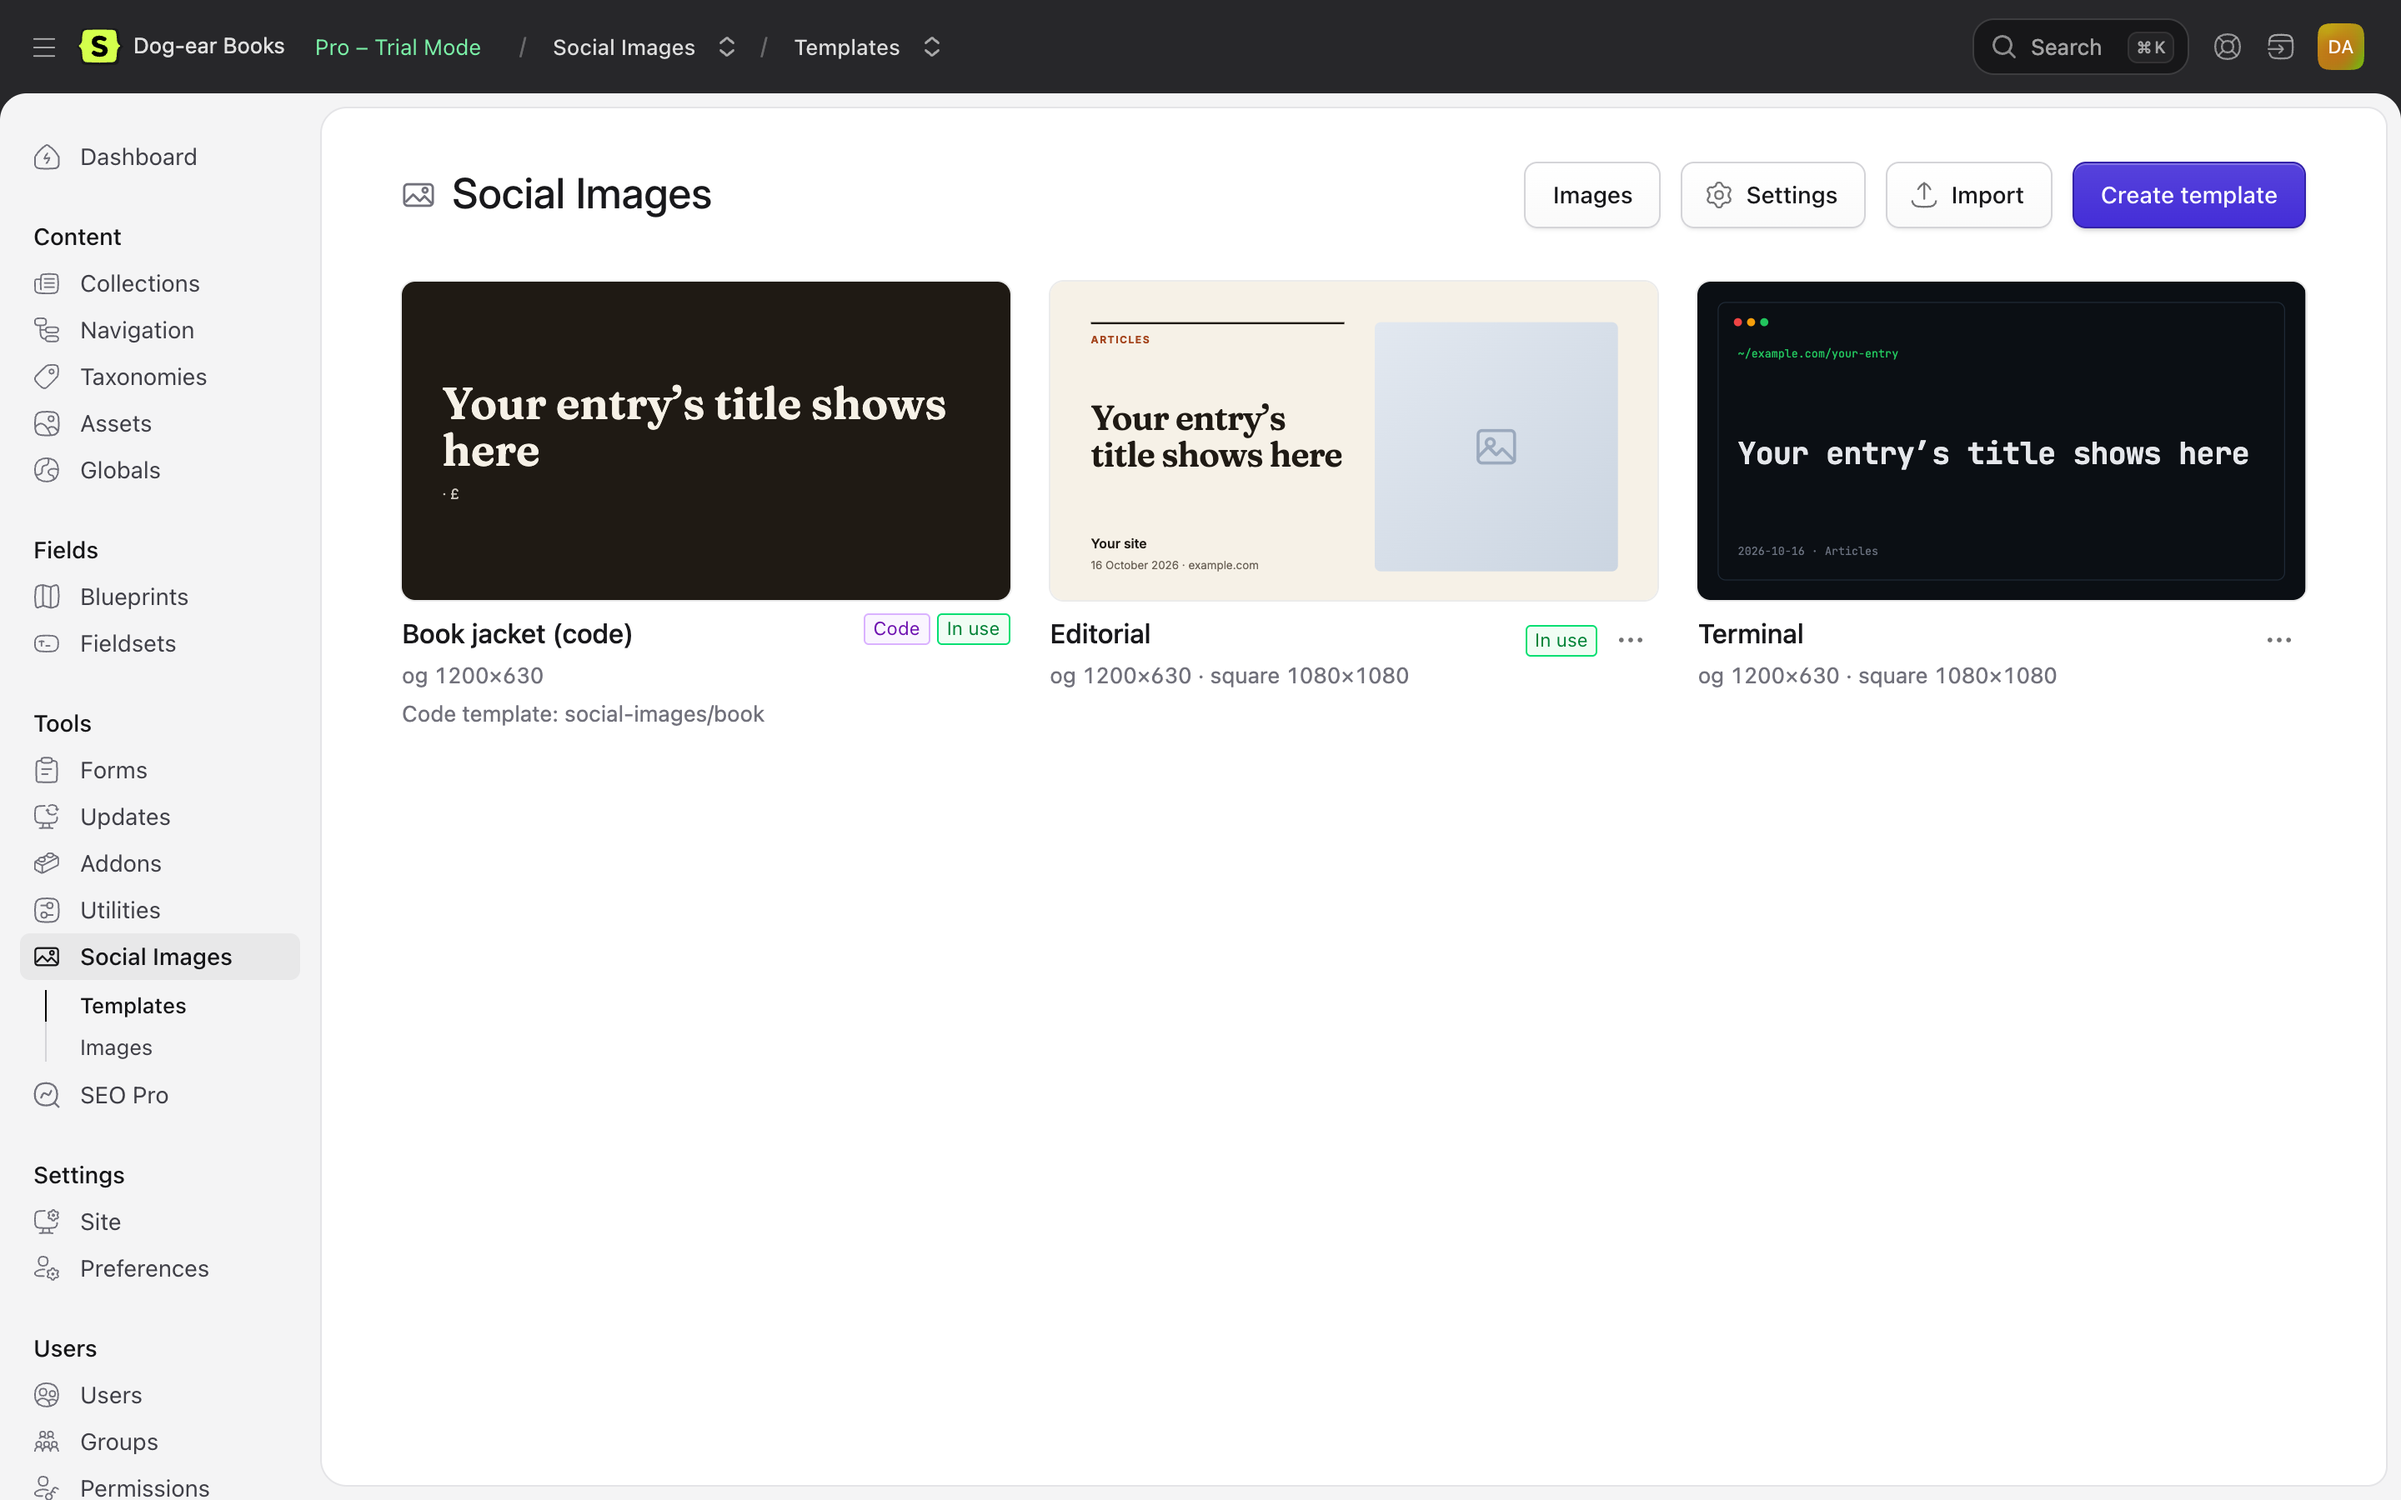
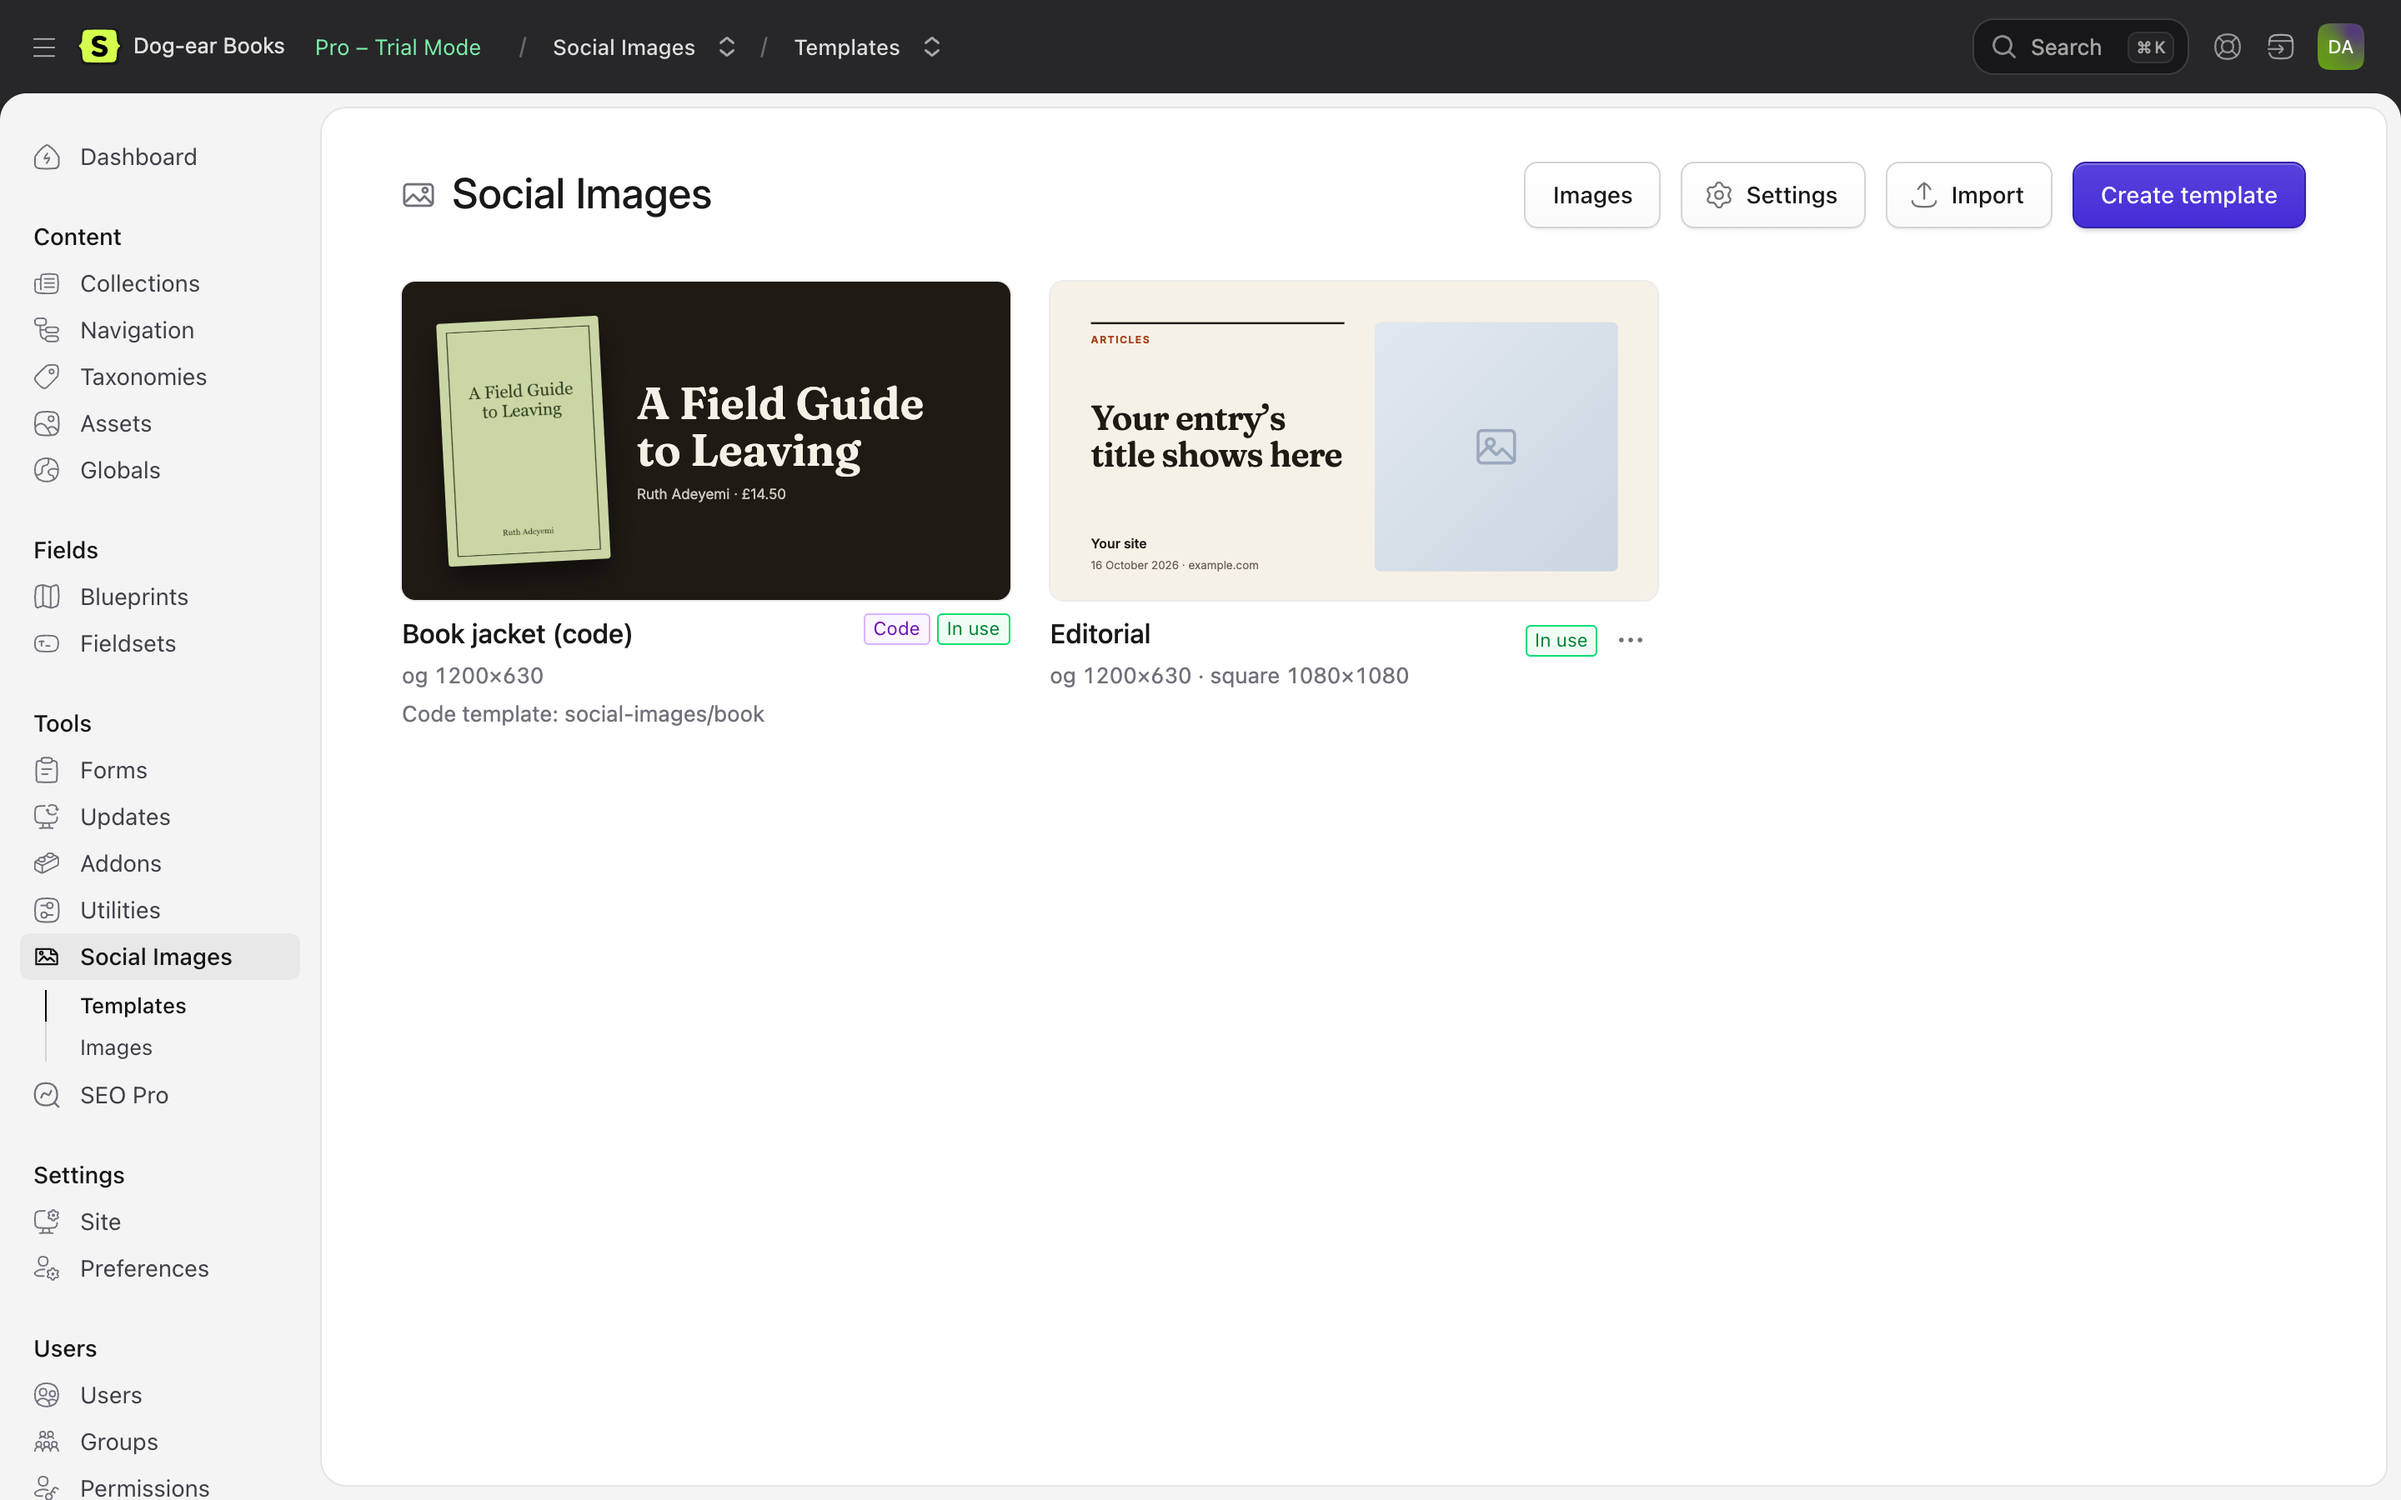
Templates page: preview code templates with a real entry
A code template only has a title to show as a sample, so its card looked
empty. With no entry chosen, it now shows a recent entry that uses the
template (one the user can see). Docs screenshots retaken.

diff --git a/src/Http/Controllers/CP/TemplatesController.php b/src/Http/Controllers/CP/TemplatesController.php
@@ -7,6 +7,7 @@ use Illuminate\Http\Request;
 use Inertia\Inertia;
 use Inertia\Response;
 use NineteenNinetyFour\SocialImages\Images\Camera;
+use NineteenNinetyFour\SocialImages\Images\Cards;
 use NineteenNinetyFour\SocialImages\Library\Fonts;
 use NineteenNinetyFour\SocialImages\Rendering\Page;
 use NineteenNinetyFour\SocialImages\Rendering\Resolver;
@@ -274,7 +275,8 @@ class TemplatesController extends CpController
         $this->authorize('view social images');
 
         $template = $this->templates->find($handle) ?? abort(404);
-        $entry = $this->entry($request->query('entry'));
+        $entry = $this->entry($request->query('entry'))
+            ?? ($template instanceof ViewTemplate ? $this->exampleEntry($template) : null);
 
         try {
             $html = $template->html($entry, Schema::BASE_LAYOUT);
@@ -289,6 +291,22 @@ class TemplatesController extends CpController
             'Content-Security-Policy' => "sandbox allow-scripts; default-src 'none'; img-src data:; font-src data:; style-src 'unsafe-inline'; script-src 'unsafe-inline'",
             'X-Robots-Tag' => 'noindex',
         ]);
+    }
+
+    /**
+     * A recent entry that uses the template, which the user can see, to
+     * preview a code template with. A view has nothing to show but the
+     * title without one, while a designer template has sample text.
+     */
+    protected function exampleEntry(Template $template): ?EntryContract
+    {
+        $cards = app(Cards::class);
+        $user = User::current();
+
+        return Entry::query()->orderBy('date', 'desc')->limit(200)->get()
+            ->first(fn (EntryContract $entry) => $cards->supports($entry)
+                && $cards->templateFor($entry)?->handle() === $template->handle()
+                && $user->can('view', $entry));
     }
 
     public function entries(Request $request): JsonResponse

diff --git a/tests/Feature/CodeTemplatesTest.php b/tests/Feature/CodeTemplatesTest.php
@@ -81,6 +81,17 @@ class CodeTemplatesTest extends TestCase
         $this->assertNotSame($hash, app(Cards::class)->for(Entry::find('one'))->hash());
     }
 
+    public function test_a_code_templates_thumbnail_shows_an_entry_that_uses_it(): void
+    {
+        $this->useTemplate('article');
+        $this->entry('one', 'A real title');
+
+        $this->actingAs($this->cpUser())
+            ->get(cp_route('social-images.templates.thumbnail', 'article'))
+            ->assertOk()
+            ->assertSee('A real title');
+    }
+
     public function test_a_designer_template_cannot_take_a_code_templates_handle(): void
     {
         $this->expectException(InvalidTemplate::class);

diff --git a/CHANGELOG.md b/CHANGELOG.md
@@ -1,5 +1,11 @@
 # Changelog
 
+## Unreleased
+
+### Changed
+- A code template's preview on the Templates page shows a recent entry that uses it, instead of a title with nothing else.
+- A new Control Panel icon: a share card with a folded corner.
+
 ## 1.0.2 (2026-10-16)
 
 ### Fixed
